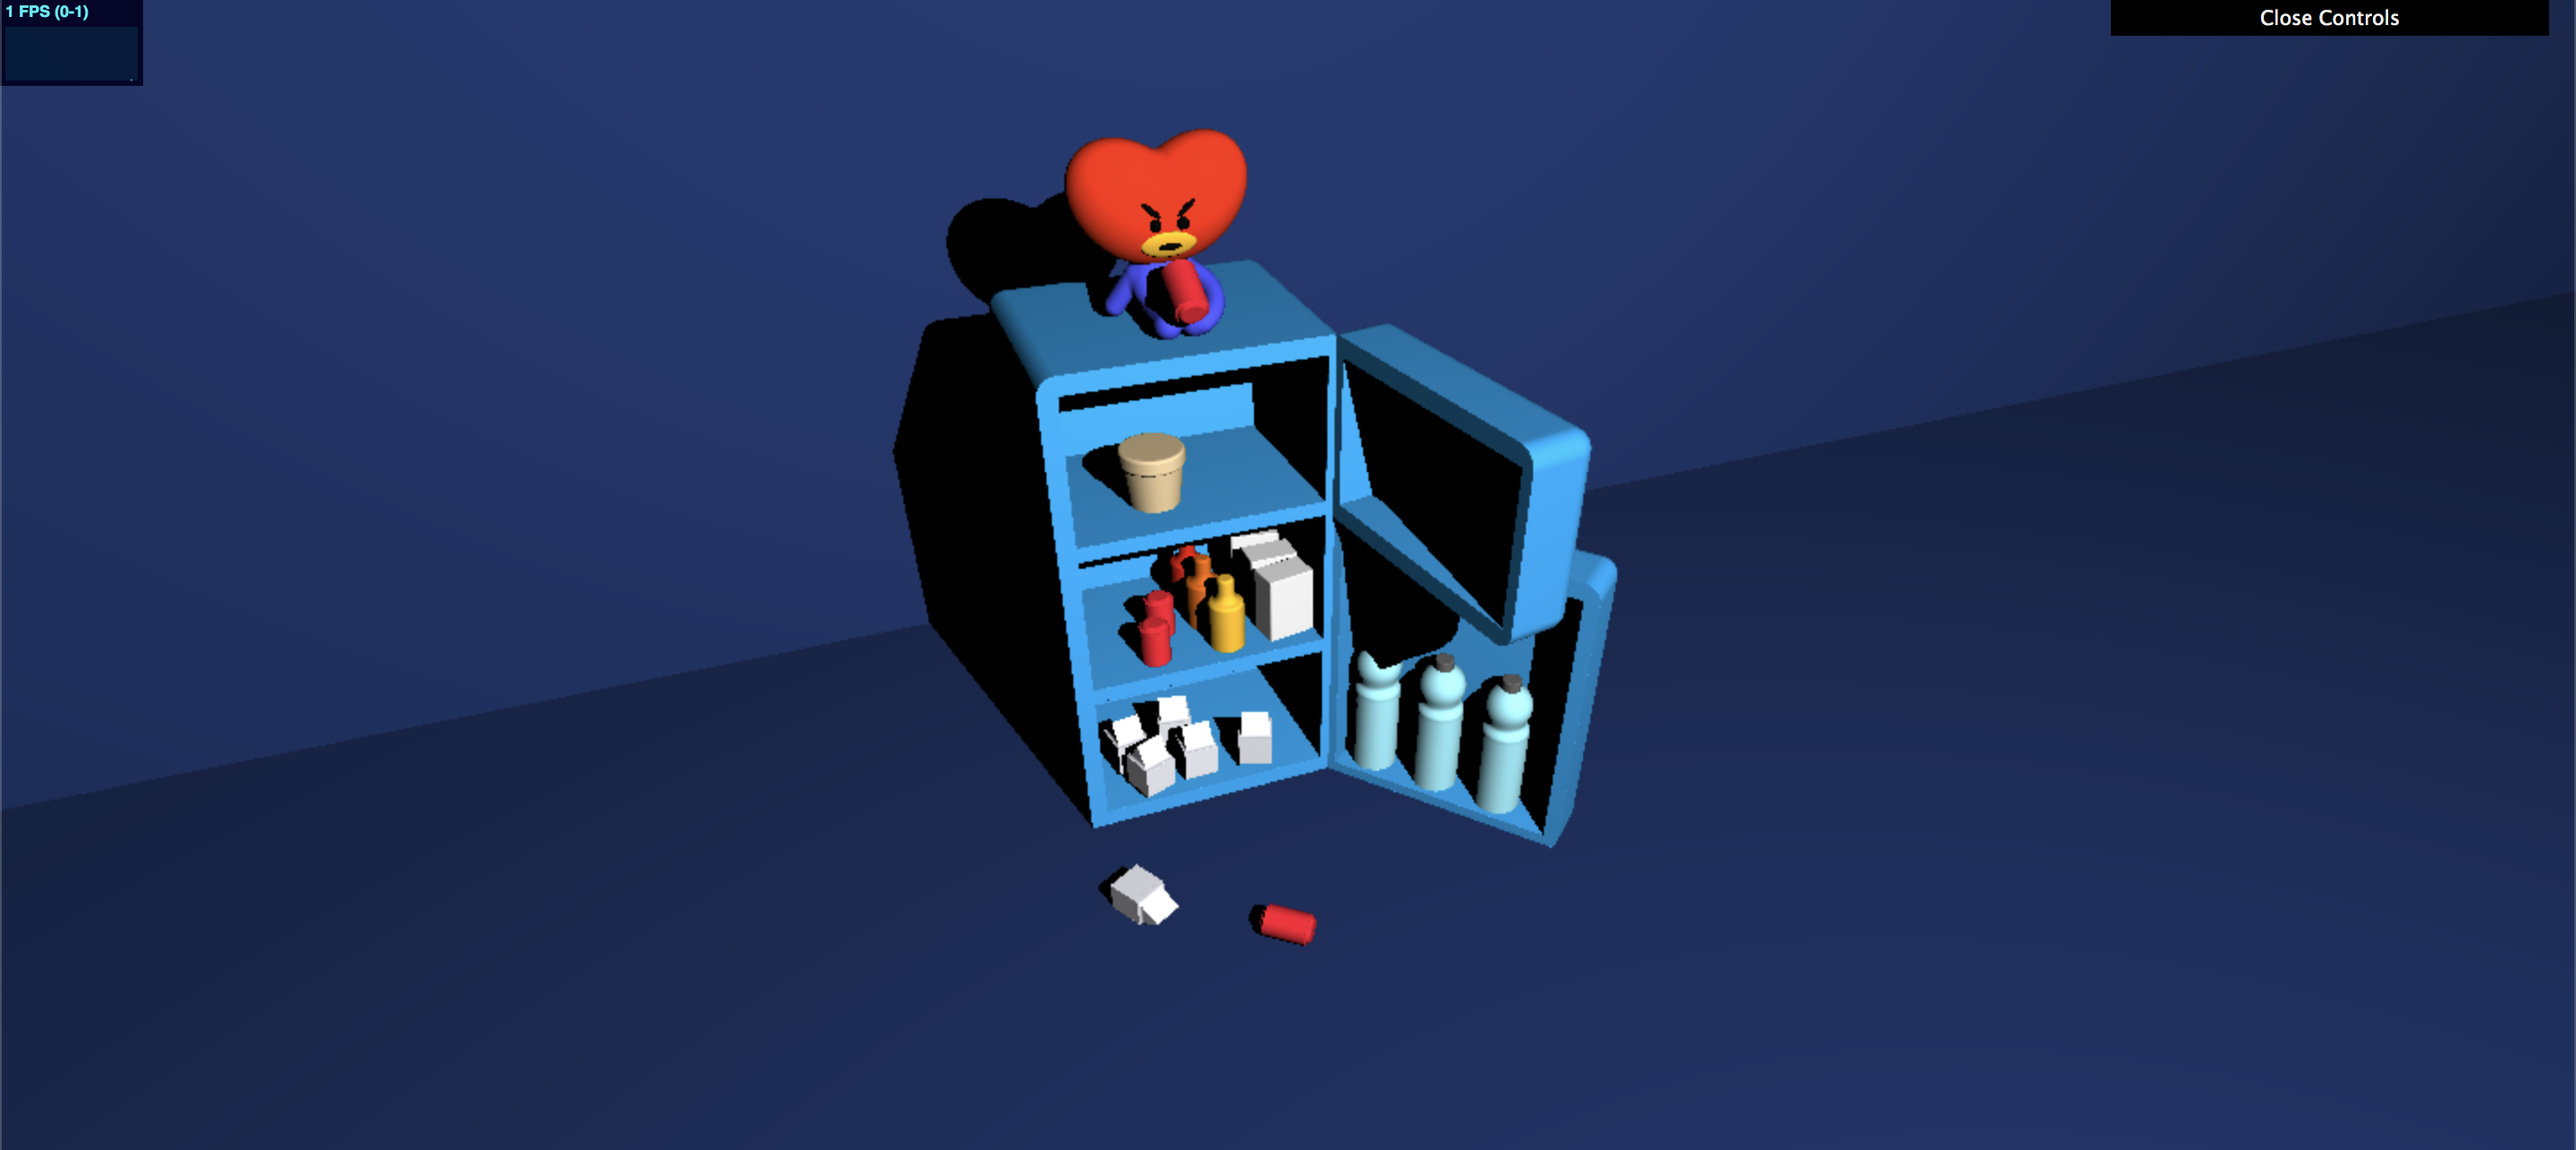
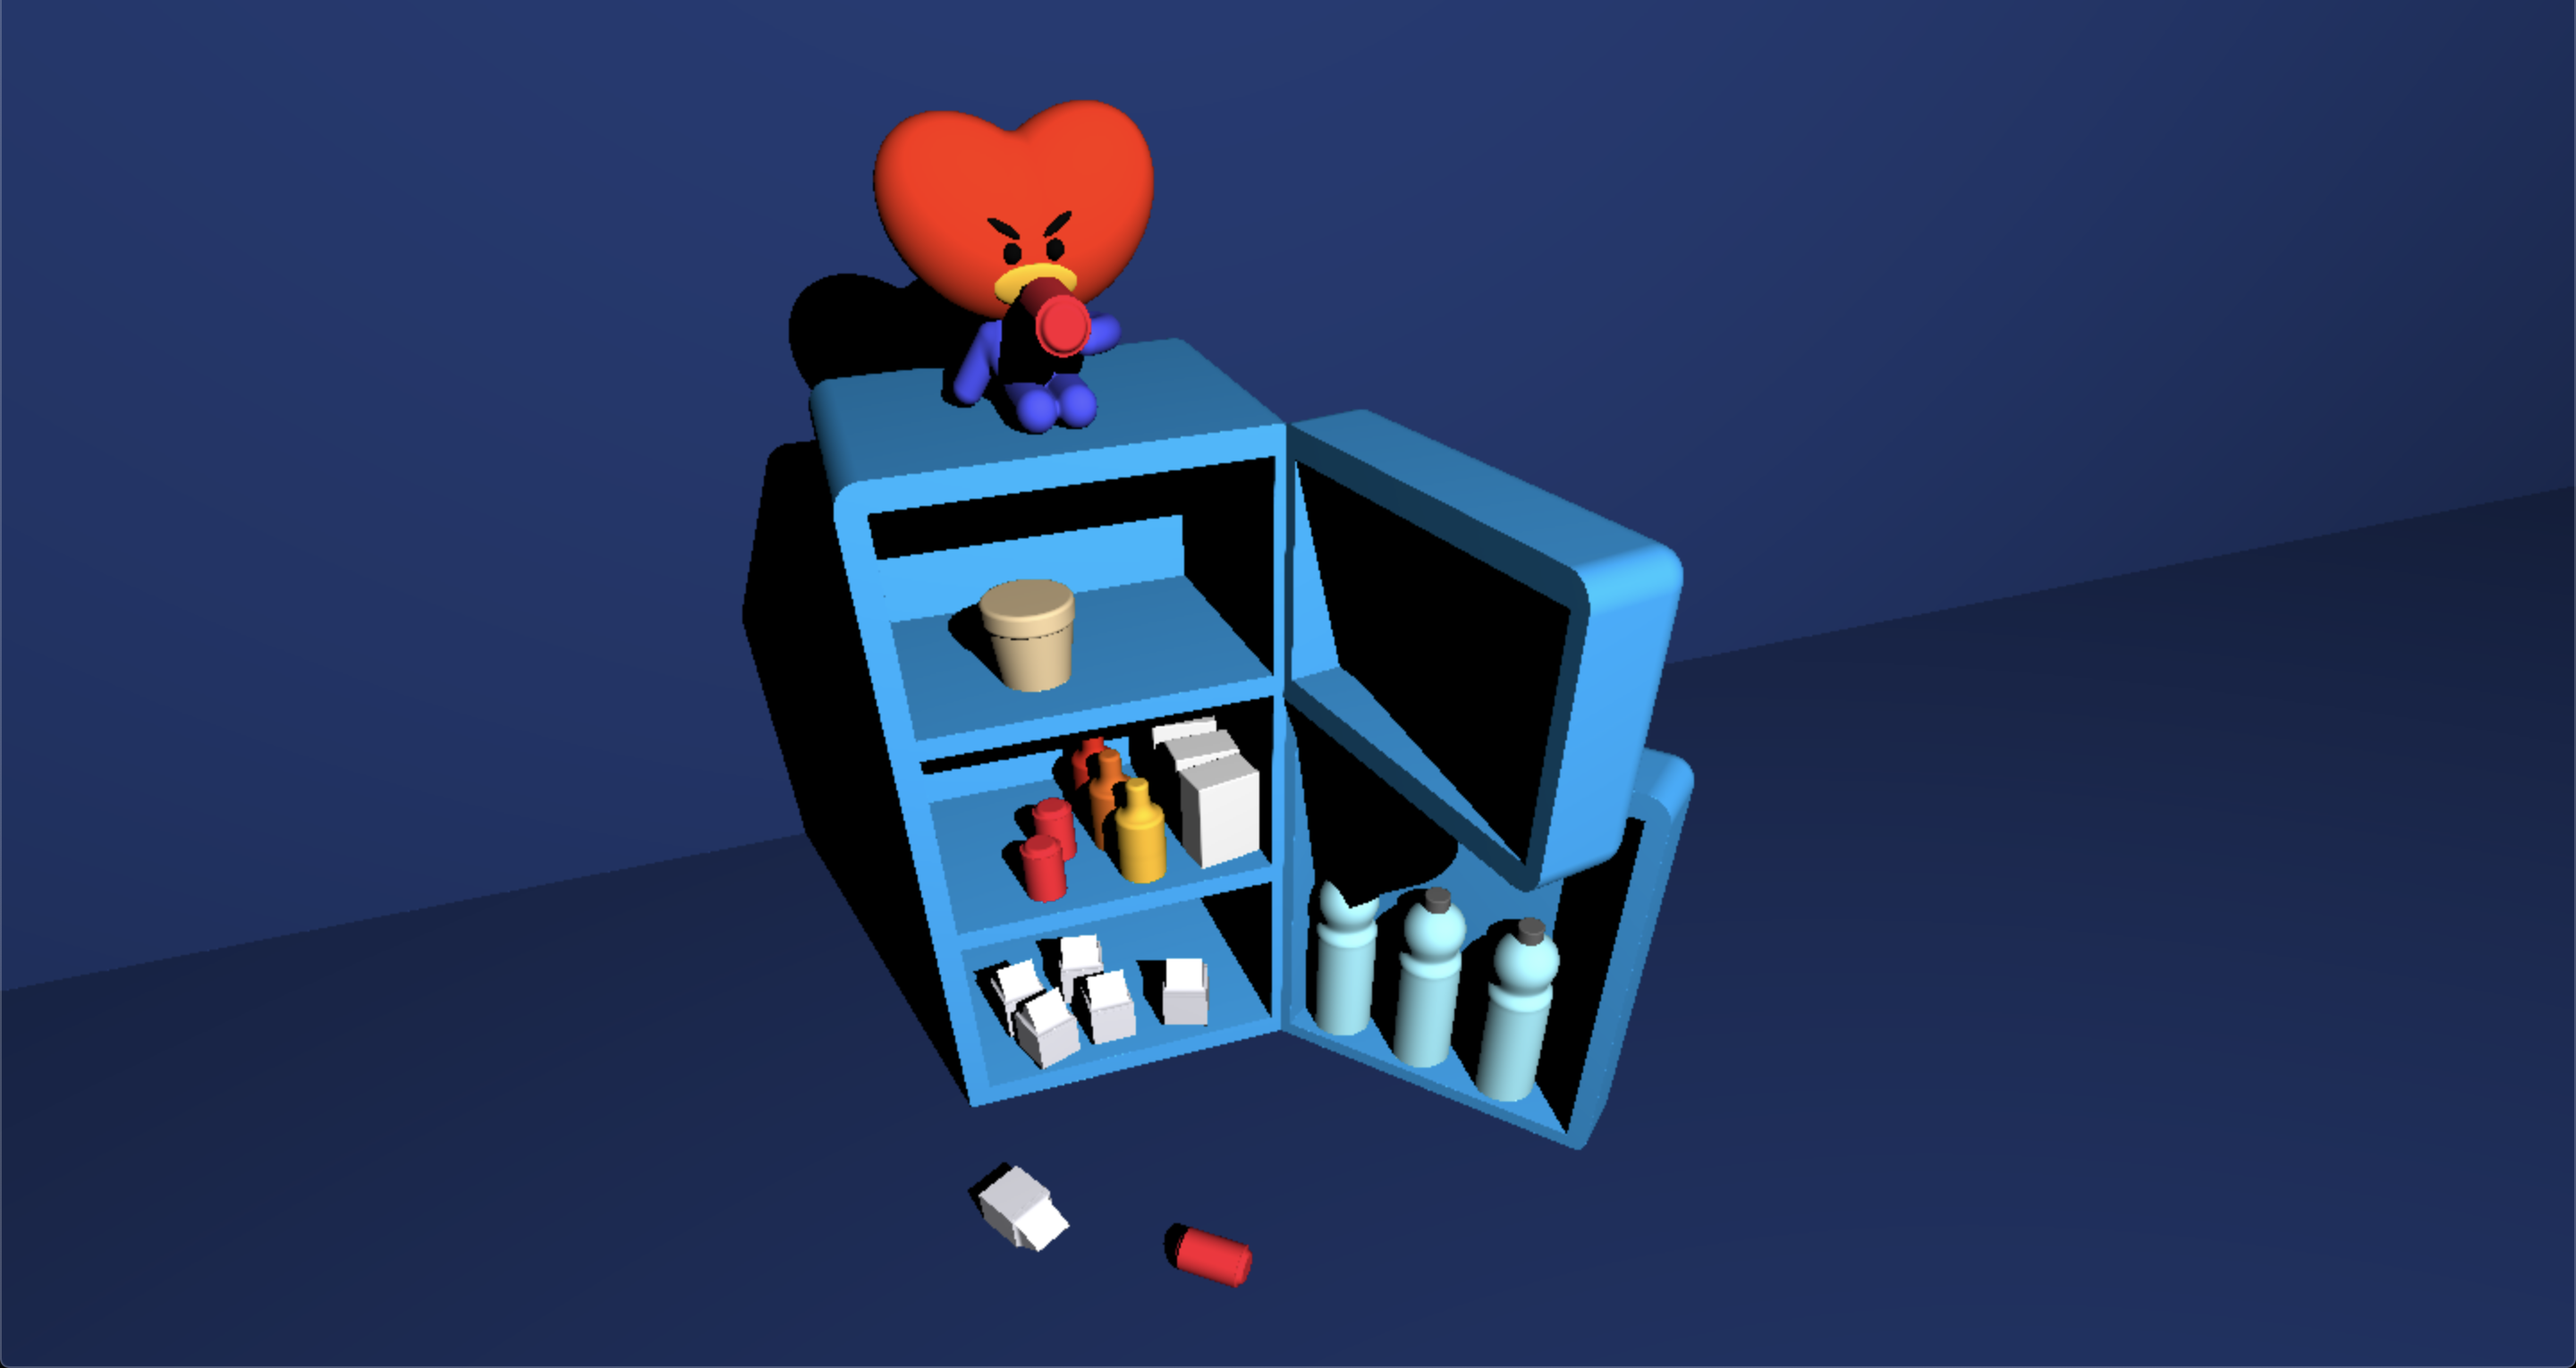
publish page

diff --git a/src/main.ts b/src/main.ts
@@ -1,6 +1,6 @@
 import {vec2, vec3} from 'gl-matrix';
-import * as Stats from 'stats-js';
-import * as DAT from 'dat-gui';
+//import * as Stats from 'stats-js';
+//import * as DAT from 'dat-gui';
 import Square from './geometry/Square';
 import OpenGLRenderer from './rendering/gl/OpenGLRenderer';
 import Camera from './Camera';
@@ -38,6 +38,7 @@ function main() {
   }, false);
 
   // Initial display for framerate
+  /*
   const stats = Stats();
   stats.setMode(0);
   stats.domElement.style.position = 'absolute';
@@ -46,7 +47,7 @@ function main() {
   document.body.appendChild(stats.domElement);
 
   // Add controls to the gui
-  const gui = new DAT.GUI();
+  const gui = new DAT.GUI();*/
 
   // get canvas and webgl context
   const canvas = <HTMLCanvasElement> document.getElementById('canvas');
@@ -61,7 +62,7 @@ function main() {
   // Initial call to load scene
   loadScene();
 
-  const camera = new Camera(vec3.fromValues(-2, 10, -6), vec3.fromValues(0, 0, -2));
+  const camera = new Camera(vec3.fromValues(-2, 7, -8), vec3.fromValues(0, 0, 5));
 
   const renderer = new OpenGLRenderer(canvas);
   renderer.setClearColor(164.0 / 255.0, 233.0 / 255.0, 1.0, 1);
@@ -79,7 +80,7 @@ function main() {
   // This function will be called every frame
   function tick() {
     camera.update();
-    stats.begin();
+    //stats.begin();
     gl.viewport(0, 0, window.innerWidth, window.innerHeight);
     renderer.clear();
     processKeyPresses();
@@ -87,7 +88,7 @@ function main() {
       square,
     ], time);
     time++;
-    stats.end();
+    //stats.end();
 
     // Tell the browser to call `tick` again whenever it renders a new frame
     requestAnimationFrame(tick);

diff --git a/dist/index.html b/dist/index.html
@@ -1,7 +1,7 @@
 <!doctype html>
 <html>
   <head>
-      <title>Project 0: Getting Started | CIS 566</title>
+      <title>Project 2: Raymarched SDFs | CIS 566</title>
       <style>
         html, body {
           margin: 0;
